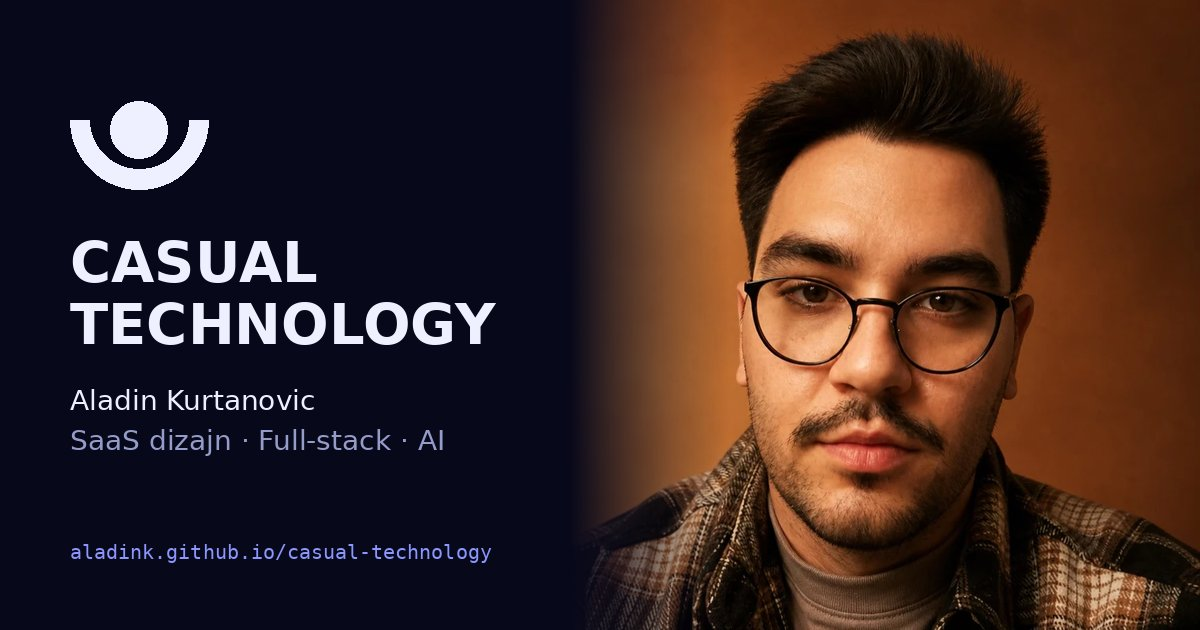
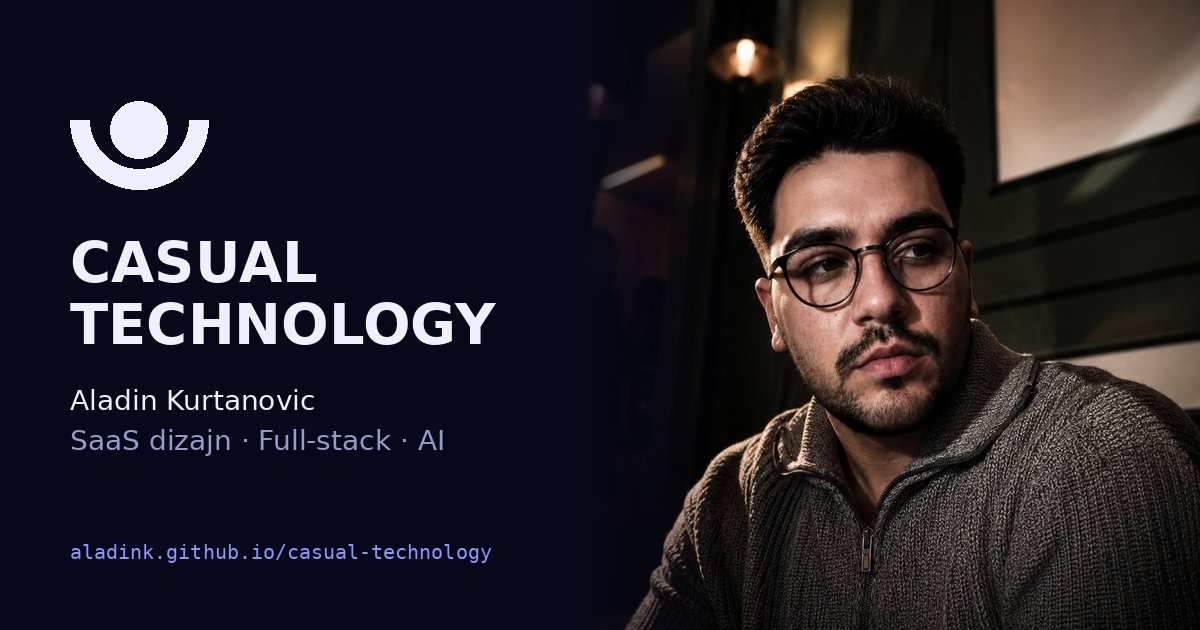
Nova fotografija i uklonjena oznaka na slici
Uspravna fotografija 4:5 u sekciji O meni, novi avatar i slika za
pregled linka. Uklonjena oznaka "Primam nove projekte".

Claude-Session: https://claude.ai/code/session_012Nj97CApyw3L76d25WhMFm

diff --git a/index.html b/index.html
@@ -182,7 +182,7 @@ main { position: relative; z-index: 2; }
 /* ---------- about ---------- */
 .about { display: grid; grid-template-columns: minmax(0, 0.85fr) minmax(0, 1fr); gap: clamp(28px, 5vw, 72px); align-items: center; padding-block: 0 clamp(70px, 10vw, 140px); }
 @media (max-width: 800px) { .about { grid-template-columns: 1fr; } }
-.me { position: relative; margin: 0; border-radius: 28px; overflow: hidden; aspect-ratio: 1; max-width: 100%; border: 1px solid var(--line); background: var(--surface); }
+.me { position: relative; margin: 0; border-radius: 28px; overflow: hidden; aspect-ratio: 4 / 5; max-width: 100%; border: 1px solid var(--line); background: var(--surface); }
 .me img { width: 100%; height: 100%; object-fit: cover; display: block; filter: grayscale(1) contrast(1.08) brightness(0.95); transition: filter 0.6s, transform 0.9s cubic-bezier(0.2, 0.8, 0.2, 1); }
 .me::before { content: ""; position: absolute; inset: 0; z-index: 1; background: var(--klein); mix-blend-mode: color; opacity: 0.5; pointer-events: none; transition: opacity 0.6s; }
 .me::after { content: ""; position: absolute; inset: 0; z-index: 1; background: linear-gradient(0deg, color-mix(in srgb, var(--ink) 88%, transparent), transparent 42%); pointer-events: none; }
@@ -191,7 +191,6 @@ main { position: relative; z-index: 2; }
 .me figcaption { position: absolute; z-index: 2; left: 24px; right: 24px; bottom: 22px; display: grid; gap: 4px; }
 .me figcaption b { font-family: var(--f-display); font-weight: 800; text-transform: uppercase; font-size: clamp(18px, 2.2vw, 24px); letter-spacing: -0.01em; }
 .me figcaption span { font-family: var(--f-mono); font-size: 11px; letter-spacing: 0.12em; text-transform: uppercase; color: var(--mute); }
-.me-badge { position: absolute; z-index: 2; top: 18px; left: 18px; display: inline-flex; align-items: center; gap: 8px; padding: 8px 14px; border-radius: 999px; font-size: 13px; font-weight: 600; background: color-mix(in srgb, var(--ink) 72%, transparent); border: 1px solid var(--line); backdrop-filter: blur(8px); -webkit-backdrop-filter: blur(8px); }
 .me-h { font-family: var(--f-display); font-weight: 800; text-transform: uppercase; font-size: clamp(30px, 4.6vw, 60px); line-height: 0.98; letter-spacing: -0.03em; margin: 14px 0 22px; text-wrap: balance; }
 .me-text .copy { color: var(--mute); font-size: 18px; max-width: 50ch; margin: 0 0 14px; }
 .facts { list-style: none; padding: 0; margin: 26px 0 30px; display: grid; grid-template-columns: repeat(3, minmax(0, 1fr)); gap: 14px; }
@@ -516,8 +515,7 @@ img { max-width: 100%; }
 
     <div class="in about">
       <figure class="me">
-        <img src="img/aladin.webp" alt="Aladin Kurtanovic, osnivač studija CASUAL TECHNOLOGY" width="800" height="800" loading="lazy">
-        <span class="me-badge"><span class="dot"></span>Primam nove projekte</span>
+        <img src="img/aladin.webp" alt="Aladin Kurtanovic, osnivač studija CASUAL TECHNOLOGY" width="800" height="1000" loading="lazy">
         <figcaption><b>Aladin Kurtanovic</b><span>Osnivač · Full-stack i SaaS dizajn</span></figcaption>
       </figure>
       <div class="me-text">
